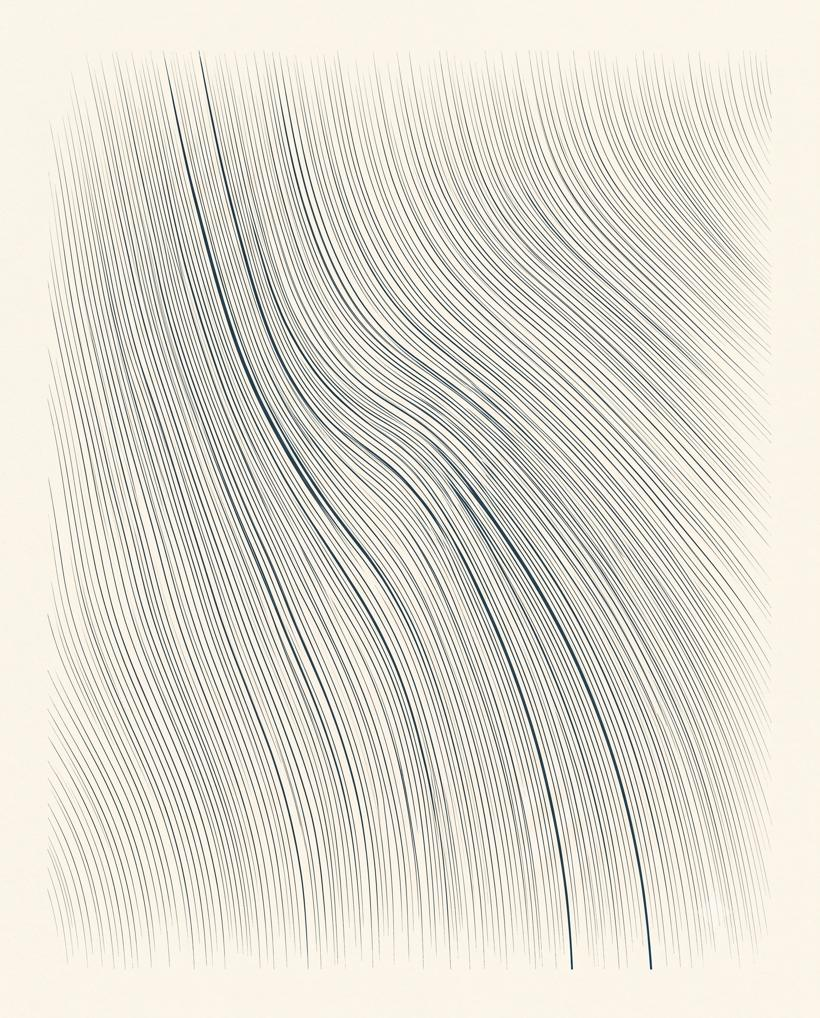
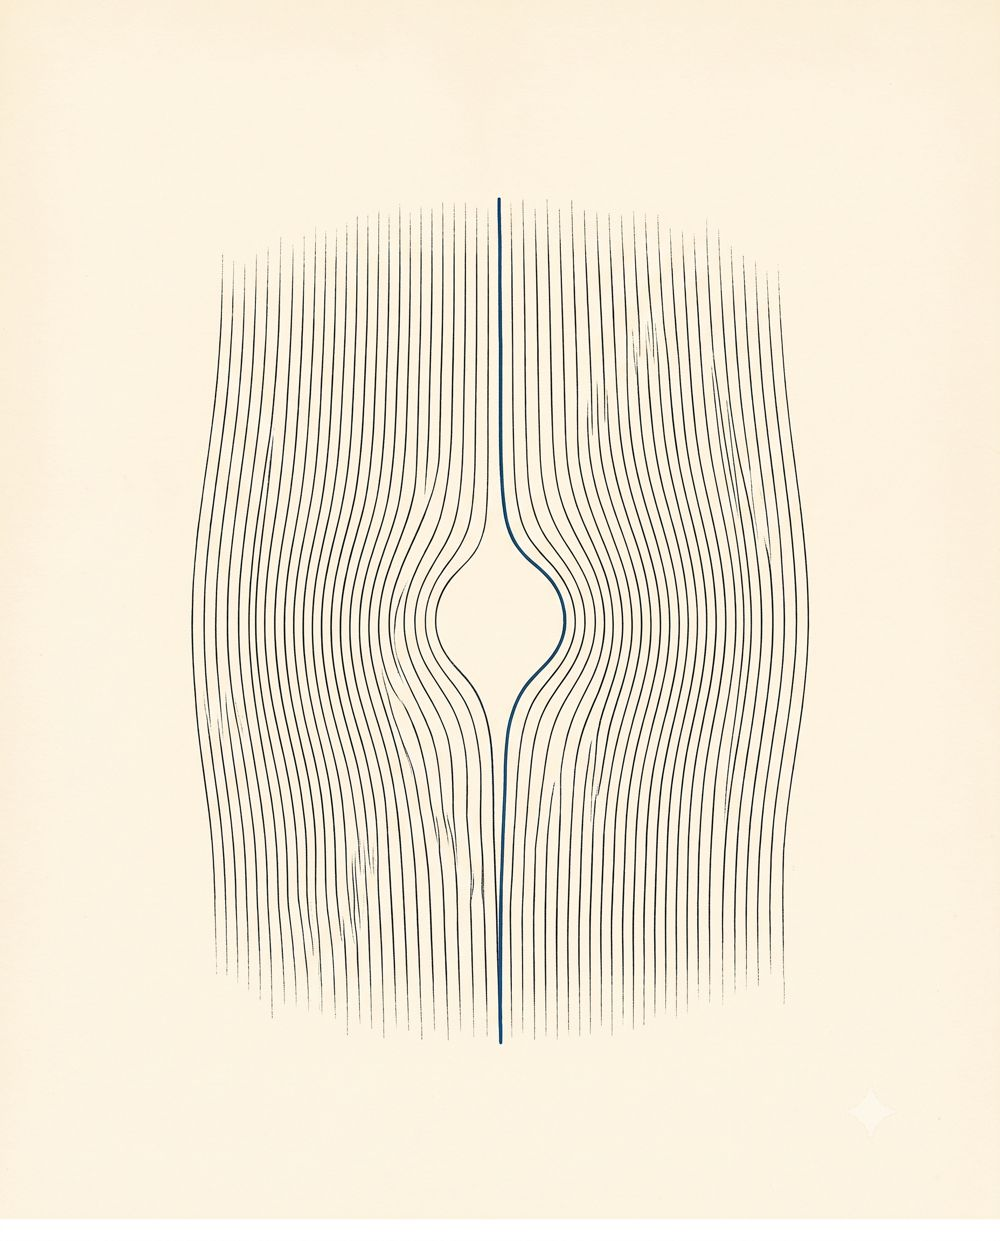
feat: complete the plate set — olympiad, oyster, refined flow-lines
Second gemini batch fills the two gaps and upgrades the weakest plate:

- Instrument I: schoolbook worksheet — circle-geometry proof,
  projectile vector diagram, branching flowchart, one pen line
- Instrument III: Project Oyster admiralty-chart swell — wind
  arrows entering from the left, wave lines compressing to a
  calm patch (the image IS the detection mechanism)
- Instrument II: flow-lines replaced with the refined version —
  field parting around an invisible obstacle, single marine-blue
  line threading through, edges dissolving into blank paper
  (old version had hard edges and cost 177KB; new is 75KB)

Every numbered instrument now has its book-plate.

diff --git a/index.html b/index.html
@@ -186,6 +186,12 @@
             At sixteen, team first runner-up and <em>Best Speaker</em> at the World Schools Debating Championship. The mind that proves also persuades.
           </p>
         </div>
+        <figure class="instrument-plate" aria-hidden="true">
+          <picture>
+            <source srcset="img/plate-olympiad.webp" type="image/webp" />
+            <img src="img/plate-olympiad.jpg" alt="" loading="lazy" decoding="async" width="1000" height="1241" />
+          </picture>
+        </figure>
       </li>
 
       <li class="instrument" data-instrument="ii">
@@ -208,7 +214,7 @@
         <figure class="instrument-plate" aria-hidden="true">
           <picture>
             <source srcset="img/plate-flowlines.webp" type="image/webp" />
-            <img src="img/plate-flowlines.jpg" alt="" loading="lazy" decoding="async" width="820" height="1018" />
+            <img src="img/plate-flowlines.jpg" alt="" loading="lazy" decoding="async" width="1000" height="1241" />
           </picture>
         </figure>
       </li>
@@ -226,6 +232,12 @@
           <p>A way to read microplastic concentration from the wind, without going in the water. Surface plastic measurably slows waves, so the well-known wind-to-wave-speed relation breaks. The physics-informed neural network learns the clean mapping from open ocean and reads the deviation as a microplastic signal — the wider the gap, the higher the concentration.</p>
           <p>People ask about the deep ocean. The deep is where plastic mass eventually settles, past the reach of any cleanup; the surface is where intervention is still possible.<sup class="cite"><a href="https://www.science.org/doi/10.1126/science.aba5899" target="_blank" rel="noopener" aria-label="Kane et al., Science, 2020">1</a></sup> Champion of the HKSTP–St.&nbsp;John's&nbsp;College Hackathon.</p>
         </div>
+        <figure class="instrument-plate" aria-hidden="true">
+          <picture>
+            <source srcset="img/plate-oyster.webp" type="image/webp" />
+            <img src="img/plate-oyster.jpg" alt="" loading="lazy" decoding="async" width="820" height="1018" />
+          </picture>
+        </figure>
       </li>
 
       <li class="instrument" data-instrument="iv">